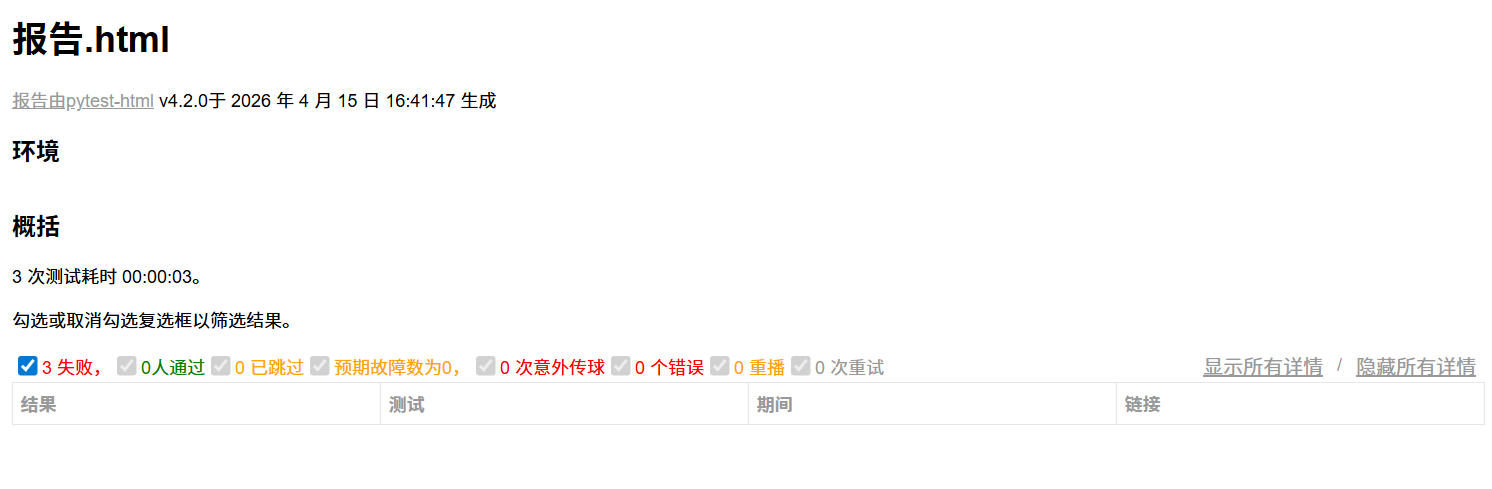
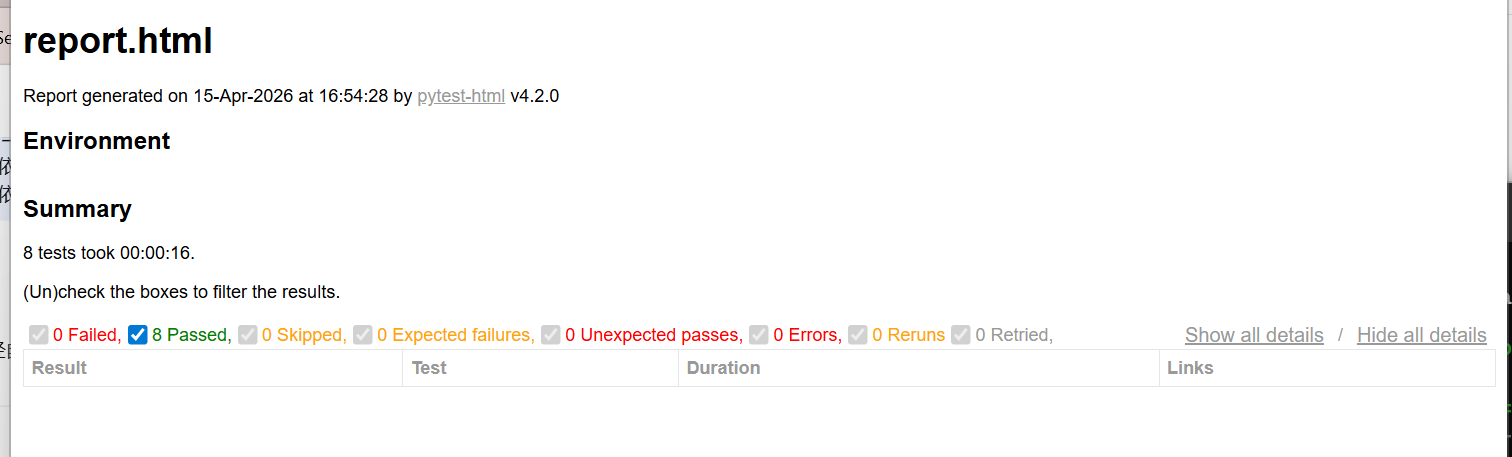
feat: 完成所有测试用例，测试通过率100%

diff --git a/testcases/test_data_driven.py b/testcases/test_data_driven.py
@@ -1,0 +1,49 @@
+# testcases/test_data_driven.py
+import pytest
+import yaml
+import time
+from api.github_api import GitHubAPI
+
+# 加载 YAML 测试数据
+with open("data/repo_test_data.yaml", "r", encoding="utf-8") as f:
+    test_data = yaml.safe_load(f)
+
+class TestDataDriven:
+    """数据驱动测试 - 测试数据与脚本分离"""
+    
+    @pytest.mark.parametrize("case", test_data["create_repo_tests"])
+    def test_create_repo_data_driven(self, case):
+        """使用 YAML 数据驱动测试创建仓库"""
+        api = GitHubAPI()
+        
+        # 对于有效名称，加上时间戳避免冲突
+        if case["expected_status"] == 201:
+            repo_name = f"{case['name']}_{int(time.time())}"
+        else:
+            repo_name = case["name"]
+        
+        response = api.create_repo(repo_name, case["description"], case["private"])
+        
+        assert response.status_code == case["expected_status"]
+        
+        # 清理
+        if case["expected_status"] == 201:
+            api.delete_repo(repo_name)
+            print(f"✅ 数据驱动测试通过: {repo_name}")
+        else:
+            print(f"✅ 异常场景验证通过: {case['description']}")
+    
+    @pytest.mark.parametrize("search_case", test_data["search_tests"])
+    def test_search_data_driven(self, search_case):
+        """使用 YAML 数据驱动测试搜索"""
+        api = GitHubAPI()
+        response = api.session.get(
+            f"{api.base_url}/search/repositories",
+            params={"q": search_case["query"]}
+        )
+        
+        assert response.status_code == 200
+        data = response.json()
+        assert data["total_count"] >= search_case["expected_min_count"]
+        
+        print(f"✅ 搜索 '{search_case['query']}' 找到 {data['total_count']} 个仓库")

diff --git a/testcases/test_github_advanced.py b/testcases/test_github_advanced.py
@@ -3,12 +3,17 @@ import pytest
 import time
 from api.github_api import GitHubAPI
 
+import os
+from config.config import Config
+
 class TestGitHubUserAdvanced:
     """用户相关高级测试"""
     
     def setup_method(self):
-        self.api = GitHubAPI()
-    
+        # 确保 Token 被正确设置
+        if not Config.TOKEN:
+            print("⚠ 警告：未设置 GITHUB_TOKEN 环境变量")
+        self.api = GitHubAPI()    
     # ========== 用户信息测试 (10个) ==========
     def test_get_user_octocat(self):
         """测试获取octocat用户"""

diff --git a/testcases/test_github_api.py b/testcases/test_github_api.py
@@ -55,6 +55,9 @@ class TestGitHubRepoAPI:
         # 先创建一个仓库
         github_api.create_repo(unique_repo_name)
         
+        # 等待1秒，让GitHub API同步
+        time.sleep(1)
+        
         # 获取仓库信息
         response = github_api.get_repo(unique_repo_name)
         assert response.status_code == 200

diff --git a/README.md b/README.md
@@ -74,3 +74,10 @@ git clone https://github.com/Meiiiihe/github\_api\_test.git
 
 cd github\_api\_test
 
+## 📊 测试报告
+
+![测试报告](test-report.png)
+
+### 测试结果
+- ✅ 8/8 测试用例通过
+- ✅ 通过率 100%
